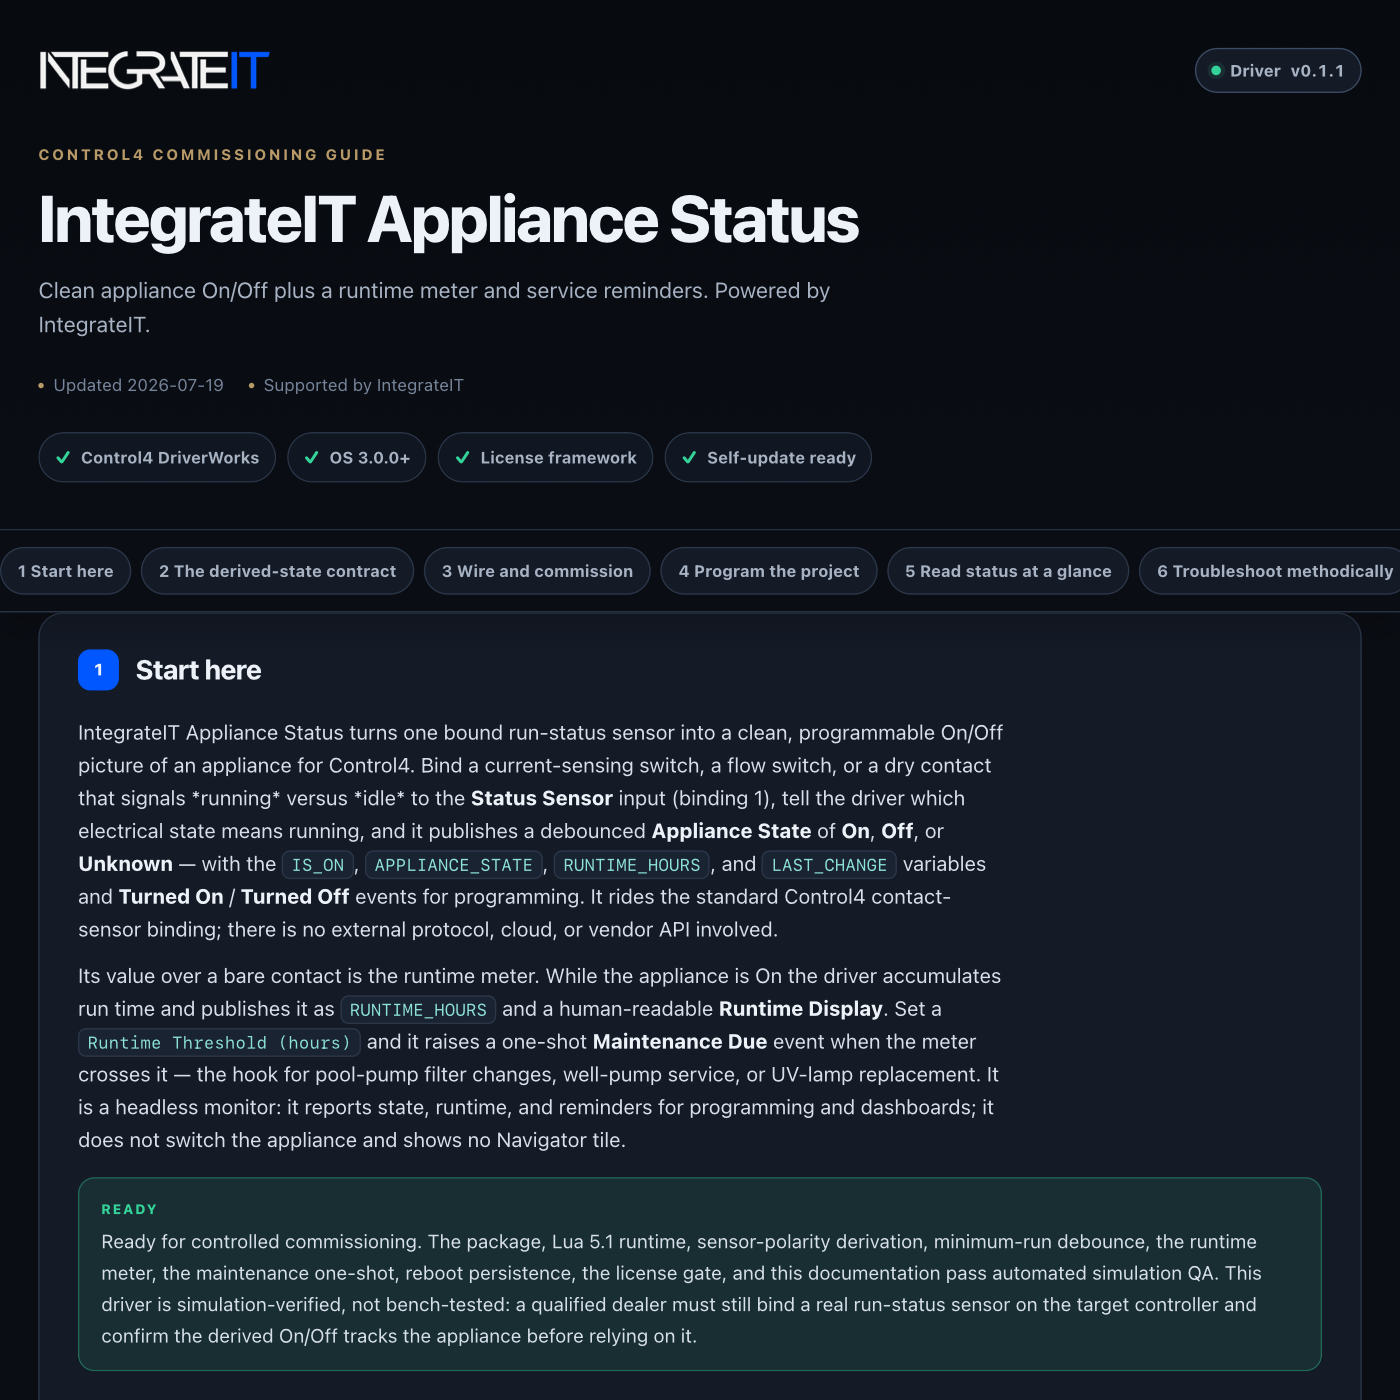
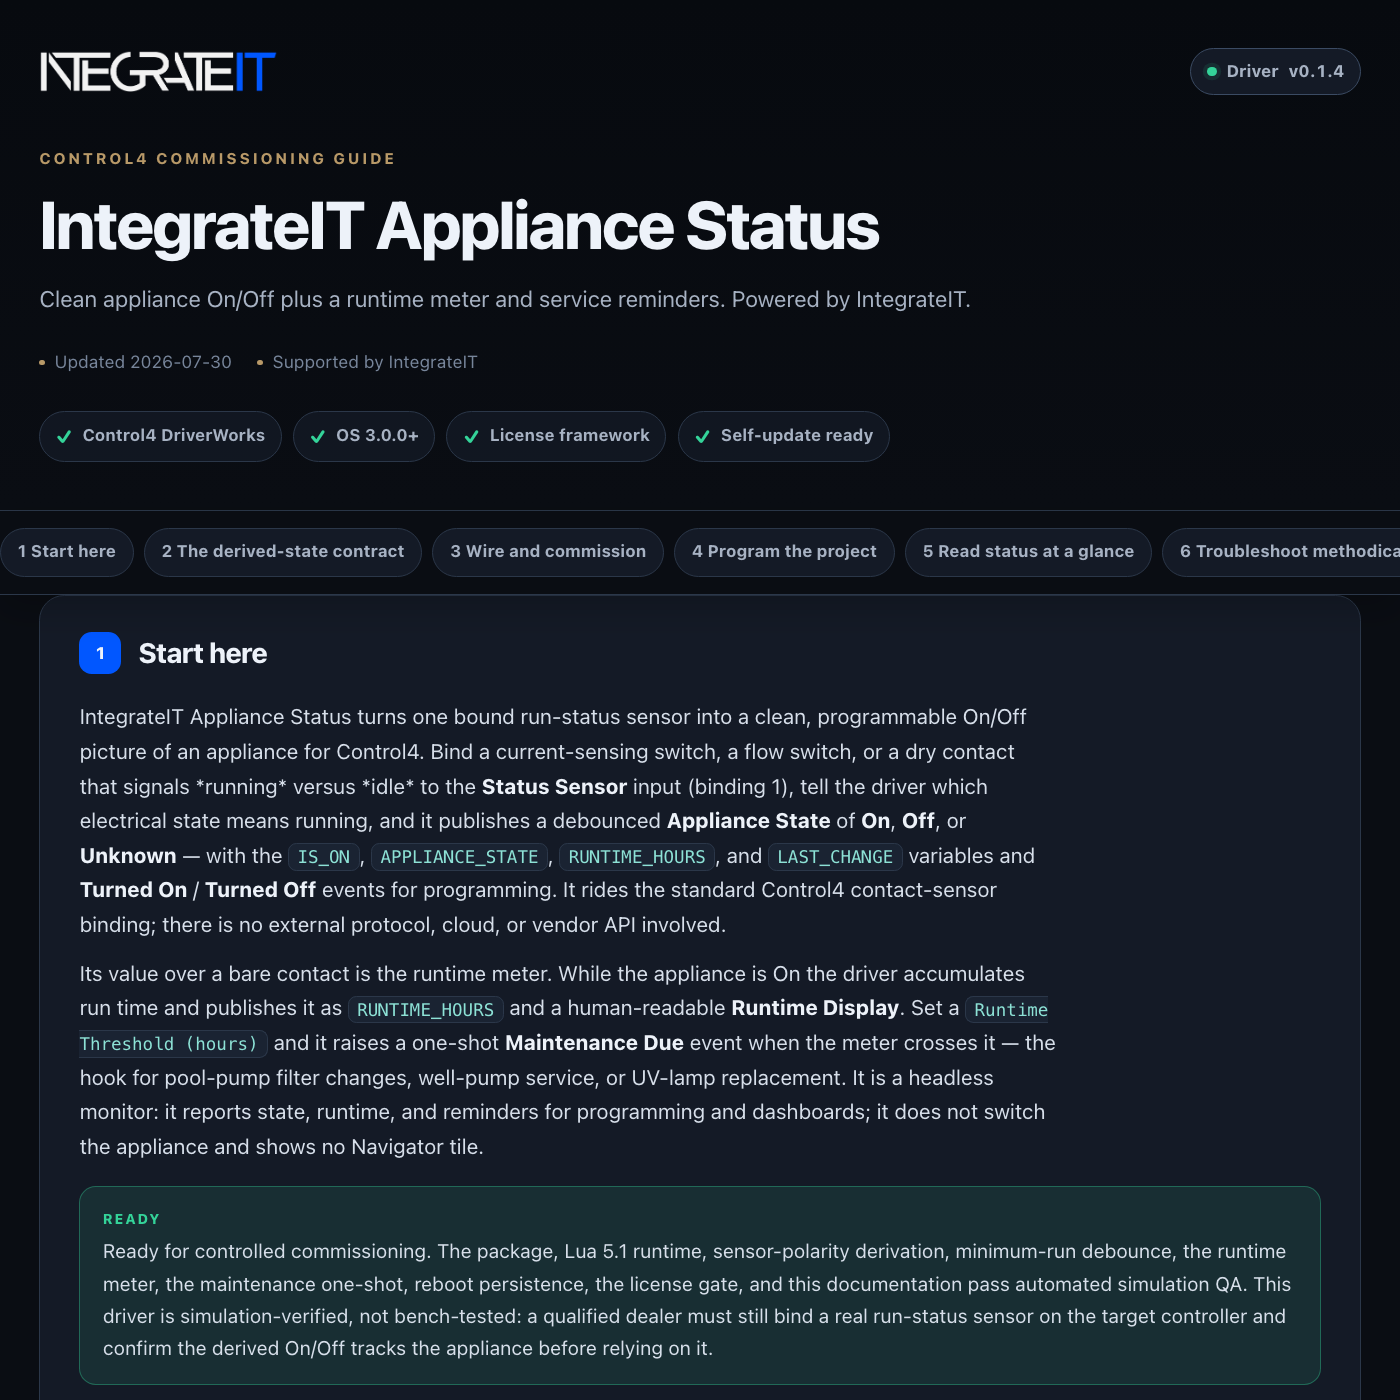
control4: publish driver channel (integrateit_appliance_status 0.1.5)

diff --git a/control4/integrateit_appliance_status/documentation.html b/control4/integrateit_appliance_status/documentation.html
@@ -179,13 +179,13 @@ td code{white-space:normal}
     <div class="wrap">
       <div class="brandbar">
[1 lines of base64/hex data omitted]
-        <span class="version"><span class="word">Driver</span> v0.1.4</span>
+        <span class="version"><span class="word">Driver</span> v0.1.5</span>
       </div>
       <p class="eyebrow">Control4 commissioning guide</p>
       <h1>IntegrateIT Appliance Status</h1>
       <p class="sub">Clean appliance On/Off plus a runtime meter and service reminders. Powered by IntegrateIT.</p>
       <div class="meta">
-        <span>Updated 2026-07-30</span>
+        <span>Updated 2026-07-31</span>
         <span>Supported by IntegrateIT</span>
       </div>
       <div class="readiness" aria-label="Driver capabilities">
@@ -204,7 +204,7 @@ td code{white-space:normal}
   <main class="wrap">
     <section class="card" id="overview" data-card="overview">
   <h2><span class="n">1</span> Start here</h2>
-  <p>IntegrateIT Appliance Status turns one bound run-status sensor into a clean, programmable On/Off picture of an appliance for Control4. Bind a current-sensing switch, a flow switch, or a dry contact that signals *running* versus *idle* to the <b>Status Sensor</b> input (binding 1), tell the driver which electrical state means running, and it publishes a debounced <b>Appliance State</b> of <b>On</b>, <b>Off</b>, or <b>Unknown</b> — with the <code>IS_ON</code>, <code>APPLIANCE_STATE</code>, <code>RUNTIME_HOURS</code>, and <code>LAST_CHANGE</code> variables and <b>Turned On</b> / <b>Turned Off</b> events for programming. It rides the standard Control4 contact-sensor binding; there is no external protocol, cloud, or vendor API involved.</p>
+  <p>IntegrateIT Appliance Status turns one bound run-status sensor into a clean, programmable On/Off picture of an appliance for Control4. Bind a current-sensing switch, a flow switch, or a dry contact that signals <i>running</i> versus <i>idle</i> to the <b>Status Sensor</b> input (binding 1), tell the driver which electrical state means running, and it publishes a debounced <b>Appliance State</b> of <b>On</b>, <b>Off</b>, or <b>Unknown</b> — with the <code>IS_ON</code>, <code>APPLIANCE_STATE</code>, <code>RUNTIME_HOURS</code>, and <code>LAST_CHANGE</code> variables and <b>Turned On</b> / <b>Turned Off</b> events for programming. It rides the standard Control4 contact-sensor binding; there is no external protocol, cloud, or vendor API involved.</p>
   <p>Its value over a bare contact is the runtime meter. While the appliance is On the driver accumulates run time and publishes it as <code>RUNTIME_HOURS</code> and a human-readable <b>Runtime Display</b>. Set a <code>Runtime Threshold (hours)</code> and it raises a one-shot <b>Maintenance Due</b> event when the meter crosses it — the hook for pool-pump filter changes, well-pump service, or UV-lamp replacement. It is a headless monitor: it reports state, runtime, and reminders for programming and dashboards; it does not switch the appliance and shows no Navigator tile.</p>
   <div class="note good">Ready for controlled commissioning. The package, Lua 5.1 runtime, sensor-polarity derivation, minimum-run debounce, the runtime meter, the maintenance one-shot, reboot persistence, the license gate, and this documentation pass automated simulation QA. This driver is simulation-verified, not bench-tested: a qualified dealer must still bind a real run-status sensor on the target controller and confirm the derived On/Off tracks the appliance before relying on it.</div>
   <p><b>What you get</b></p>
@@ -220,11 +220,11 @@ td code{white-space:normal}
 
 <section class="card" id="derived" data-card="derived">
   <h2><span class="n">2</span> The derived-state contract</h2>
-  <p>This driver never sees the appliance. It sees exactly one thing — the CLOSED / OPENED reports from the bound contact sensor — and <b>Appliance State</b> is *derived* from those reports and the <code>Running Active State</code> polarity, nothing more. A correctly set polarity is the whole accuracy story: set it backward and the driver reports the appliance inverted, with complete confidence. Anything it published beyond what that one contact reports would be faking it. Reports on any binding other than <b>Status Sensor</b> are ignored.</p>
+  <p>This driver never sees the appliance. It sees exactly one thing — the CLOSED / OPENED reports from the bound contact sensor — and <b>Appliance State</b> is <i>derived</i> from those reports and the <code>Running Active State</code> polarity, nothing more. A correctly set polarity is the whole accuracy story: set it backward and the driver reports the appliance inverted, with complete confidence. Anything it published beyond what that one contact reports would be faking it. Reports on any binding other than <b>Status Sensor</b> are ignored.</p>
   <p>The two report forms mean different things on the wire:</p>
   <ul>
     <li>A bare <b>CLOSED</b> or <b>OPENED</b> is a live change. It runs the <code>Minimum Run (s)</code> debounce; only a reading that survives the window commits — publishing the new state, firing <b>Turned On</b> or <b>Turned Off</b>, and starting or stopping runtime accrual.</li>
-    <li>A <b>STATE_CLOSED</b> / <b>STATE_OPENED</b> is the bind-time snapshot Director replays when the driver loads. It establishes On/Off *silently* — no transition event, no back-dated runtime — and only syncs the meter to that state.</li>
+    <li>A <b>STATE_CLOSED</b> / <b>STATE_OPENED</b> is the bind-time snapshot Director replays when the driver loads. It establishes On/Off <i>silently</i> — no transition event, no back-dated runtime — and only syncs the meter to that state.</li>
   </ul>
   <p>Two honesty consequences follow, both proven by the sim:</p>
   <ul>
@@ -266,10 +266,11 @@ td code{white-space:normal}
   </table>
   <p>Recipes using this driver's own names:</p>
   <ul>
-    <li><b>Service reminder:</b> When <b>Maintenance Due</b> fires → push a notification and add a "service the pool pump" to-do. After servicing, call <b>Reset Runtime</b>, which zeroes the meter and re-arms the reminder for the next interval.</li>
+    <li><b>Service reminder:</b> When <b>Maintenance Due</b> fires → push a notification and add a "service the pool pump" to-do. After servicing, run <b>Reset Runtime</b> from the Actions tab, which zeroes the meter and re-arms the reminder for the next interval.</li>
     <li><b>Runaway-pump alarm:</b> When <b>Turned On</b> fires → start a project timer; if <b>Turned Off</b> has not fired by the expected cycle time, announce it. Show <code>RUNTIME_HOURS</code> on a dashboard for the running total.</li>
-    <li><b>Snooze without losing hours:</b> To silence a reminder but keep counting toward the next reset, call <b>Acknowledge Maintenance</b> — it clears the due flag without zeroing the meter.</li>
+    <li><b>Silence a reminder without losing hours:</b> Run <b>Acknowledge Maintenance</b> from the Actions tab. It clears the due flag without zeroing the meter, so <code>RUNTIME_HOURS</code> keeps climbing. Read it as <i>mute</i>, not <i>snooze</i>: the acknowledgement latches and survives a reboot, so <b>Maintenance Due</b> will not fire again until <b>Reset Runtime</b> clears both.</li>
   </ul>
+  <p><b>Reset Runtime</b>, <b>Acknowledge Maintenance</b>, and <b>Print Configuration</b> are Composer <b>Actions tab</b> entries — a dealer clicks them during service. This driver publishes no device-specific commands, so programming reacts to its events and reads its variables rather than calling it.</p>
   <p><b>Reset Runtime</b> and <b>Acknowledge Maintenance</b> are license-gated: under Strict enforcement an unlicensed controller performs neither and fires no event. <b>Print Configuration</b> is never gated. State derivation and the runtime meter keep running regardless of license — monitoring your own appliance is not a licensed feature.</p>
 </section>
 
@@ -295,6 +296,7 @@ td code{white-space:normal}
     <tr><td>State flickers on/off</td><td>Debounce too short for a noisy sensor</td><td>Raise <code>Minimum Run (s)</code> until the blips stop toggling the state</td></tr>
     <tr><td>Runtime climbs while the appliance is Off</td><td>Polarity inverted, so idle reads as running</td><td>Correct <code>Running Active State</code></td></tr>
     <tr><td>Maintenance never fires</td><td>Threshold is <code>0</code>, or the meter has not reached it</td><td>Set a positive <code>Runtime Threshold (hours)</code>; check <code>RUNTIME_HOURS</code> against it</td></tr>
+    <tr><td>Maintenance fired once and never again, though the meter kept climbing</td><td><b>Acknowledge Maintenance</b> was run. The acknowledgement latches and survives a reboot, so <b>Maintenance Due</b> cannot fire again on this meter</td><td>Run <b>Reset Runtime</b> from the Actions tab — it is the only thing that clears the acknowledgement and re-arms the reminder</td></tr>
     <tr><td>Runtime looks low</td><td>Meter accrues only while On, at one-minute resolution</td><td>Confirm <code>IS_ON</code> is <code>1</code>; brief cycles round down by up to a minute</td></tr>
     <tr><td>Reset Runtime does nothing</td><td>Strict enforcement on an unlicensed controller</td><td>Check <code>License Status</code>; Reset and Acknowledge are license-gated</td></tr>
   </table>
@@ -308,7 +310,7 @@ td code{white-space:normal}
   <p>Lenient mode allows commissioning without an activated key and keeps <code>License Status</code> visible. Strict mode blocks the <b>Reset Runtime</b> and <b>Acknowledge Maintenance</b> actions until the Ops Portal has minted and validated a key for that controller; state derivation and metering continue either way. Installing this package does not itself mint or activate a controller license.</p>
 <section class="card" id="reference" data-card="reference">
   <h2><span class="n">R</span> Reference</h2>
-  <p>Generated from the driver manifest at build time — always matches this build (v0.1.4).</p>
+  <p>Generated from the driver manifest at build time — always matches this build (v0.1.5).</p>
   <h3>Properties</h3>
   <table>
     <tr><th>Property</th><th>Type</th><th>Default</th><th>Description</th></tr>
@@ -422,7 +424,9 @@ td code{white-space:normal}
     <section class="card" id="changelog" data-card="changelog">
   <h2><span class="n">V</span> Version history</h2>
   <div class="chg">
-    <div class="rel"><b>v0.1.4</b> <span class="pill green">current</span><span class="d">2026-07-30</span>
+    <div class="rel"><b>v0.1.5</b> <span class="pill green">current</span><span class="d">2026-07-31</span>
+      <ul><li>Programming-recipe honesty (per research/briefs-2026-07-26/actions-vs-commands-verdict.md, interim rule): the recipes told a dealer to "call Reset Runtime" / "call Acknowledge Maintenance" from programming. Both are Actions-tab entries and this driver declares no programming commands, so those lines are now Actions-tab phrasing and the section states plainly that programming reacts to the events instead.</li><li>Acknowledge Maintenance latches and survives a reboot, so once run, Maintenance Due can never fire again until Reset Runtime clears it. The guide called this "snooze" and the troubleshooting table's "Maintenance never fires" row listed only the threshold and the meter — a dealer whose reminder went permanently silent had no way to find the cause. Both now state the latch and name Reset Runtime as the only thing that re-arms it.</li><li>Documentation rendering: emphasis written as *emphasis* in the source now renders as emphasis in the packaged Documentation tab instead of shipping as literal asterisks. Protocol strings that legitimately contain a star, quoted inside code, stay exactly as written.</li></ul></div>
+    <div class="rel"><b>v0.1.4</b><span class="d">2026-07-30</span>
       <ul><li>A numeric property containing nan or inf (possible through a hand-edited project file) passed tonumber, defeated every range clamp (all nan comparisons are false), and could reach a timer interval or the wire. Numeric properties now fall back to their documented default when non-finite, and the transmit chokepoint refuses a non-finite value by name.</li><li>A poll timer could arm with a nan interval and never fire; it now falls back to its documented default.</li><li>Adds the fleet-standard Run Diagnostics and Run Self-Test dealer actions: read-only, license-independent, cached-state honesty. Diagnostics reports what the driver has already observed - never probing the network, never printing a secret. Self-Test proves the shared layer locally and ends PASS or FAIL.</li></ul></div>
     <div class="rel"><b>v0.1.3</b><span class="d">2026-07-26</span>
       <ul><li>Documentation rebuilt to the IntegrateIT commissioning-guide standard: uniform sections, honest contracts, verified claim-by-claim against the code.</li></ul></div>

diff --git a/control4/integrateit_appliance_status/CHANGELOG.md b/control4/integrateit_appliance_status/CHANGELOG.md
@@ -1,5 +1,10 @@
 # Changelog — IntegrateIT Appliance Status
 
+## [0.1.5] - 2026-07-31
+- Programming-recipe honesty (per research/briefs-2026-07-26/actions-vs-commands-verdict.md, interim rule): the recipes told a dealer to "call Reset Runtime" / "call Acknowledge Maintenance" from programming. Both are Actions-tab entries and this driver declares no programming commands, so those lines are now Actions-tab phrasing and the section states plainly that programming reacts to the events instead.
+- Acknowledge Maintenance latches and survives a reboot, so once run, Maintenance Due can never fire again until Reset Runtime clears it. The guide called this "snooze" and the troubleshooting table's "Maintenance never fires" row listed only the threshold and the meter — a dealer whose reminder went permanently silent had no way to find the cause. Both now state the latch and name Reset Runtime as the only thing that re-arms it.
+- Documentation rendering: emphasis written as *emphasis* in the source now renders as emphasis in the packaged Documentation tab instead of shipping as literal asterisks. Protocol strings that legitimately contain a star, quoted inside code, stay exactly as written.
+
 ## [0.1.4] - 2026-07-30
 - A numeric property containing nan or inf (possible through a hand-edited project file) passed tonumber, defeated every range clamp (all nan comparisons are false), and could reach a timer interval or the wire. Numeric properties now fall back to their documented default when non-finite, and the transmit chokepoint refuses a non-finite value by name.
 - A poll timer could arm with a nan interval and never fire; it now falls back to its documented default.
